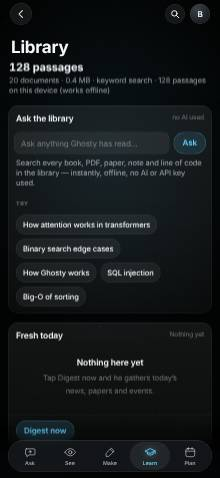
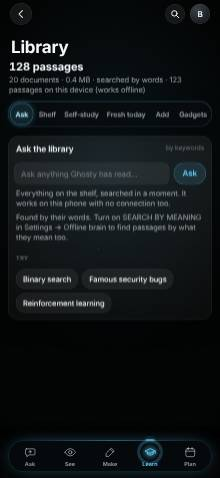
System's report card links to the Offline Brain panel itself (the Settings screen opens on whatever pill was last chosen); the deck's twenty miniatures made again after the sections
Claude-Session: https://claude.ai/code/session_01PxJsFpBagxwsDNyyZqF76o

diff --git a/apps/web/src/features/system/reportcard.ts b/apps/web/src/features/system/reportcard.ts
@@ -10,7 +10,7 @@ import { clear, h, svgEl } from '../../core/dom';
 import { catScores, CATS, overall, summarise, trend, voiceLine, type Run } from '../../offline/bench';
 import { offlineBrain, offlineReady, offlineSupport } from '../../offline/brain';
 import { modelKey, needsCheck, reportCard, runReportCard, stopThinking, thinking } from '../../offline/harder';
-import { go } from '../../shell/tabs';
+import { goToPanel } from '../../ui/sections';
 import { bar, button, panel, toast, type Panel } from '../../ui/components';
 
 const pct = (x: number) => `${Math.round(x * 100)}%`;
@@ -57,7 +57,8 @@ export function reportCardPanel(): Panel & { refresh(): void } {
   const quick = button('QUICK CHECK', () => start(false));
   quick.title = 'All 20 questions, as in chat only (a few minutes)';
   const stop = button('STOP', () => stopThinking(), 'warn');
-  const toSettings = button('DOWNLOAD IT IN SETTINGS', () => go('settings'));
+  // (the panel itself, not the Settings screen on whatever pill was last chosen: it sits under Voice & home)
+  const toSettings = button('DOWNLOAD IT IN SETTINGS', () => goToPanel('settings', 'OFFLINE BRAIN'));
 
   /** One run: a row per kind (as in chat · with THINK HARDER · time), then the verdict. */
   const paintRun = (r: Run, live: boolean) => {

diff --git a/docs/build-plan/UPGRADES.md b/docs/build-plan/UPGRADES.md
@@ -6,6 +6,7 @@ when the change is merged into the branch, not when it is planned.
 
 | Date | Area | What changed | Before | After | Evidence |
 |---|---|---|---|---|---|
+| 25 Oct | Polish | TWO SMALL THINGS LEFT BY THE SECTIONS ROLLOUT: System's report card's DOWNLOAD IT IN SETTINGS went to the Settings screen on whatever pill was last chosen (the Offline Brain panel sits under Voice & home, so it could land on Appearance with no sign of it) → it opens the panel itself (`goToPanel('settings', 'OFFLINE BRAIN')`, as the School's link already did); the Every-screen deck's twenty miniatures were photographed before the sections and showed the old long pages → made again on a fresh preview (`tests/deckshots.spec.mjs`), so the deck shows each screen with its pills. | a link that could miss its panel; stale pictures on Home's deck | the panel in view; pictures of the screens as they are | `tests/deck.spec.mjs`, `thinkharder` (the report card) and `ui` clean on a fresh preview of the tree |
 | 25 Oct | Navigation | LITTLE TABS INSIDE EVERY LONG SCREEN (OWNER-ISSUES 48; the owner: "i wanted like the things inside the tabs to have their own little tabs too because it can get a little confusing and overstimulating"): `ui/sections.ts` (44 pt pills under the title, one section at a time, remembered per screen, deep links select their pill, phones only) on Settings (Appearance · You · Voice & home · Ghosty · About), the Library (Ask · Shelf · Self-study · Fresh today · Add · Gadgets), Memory (Me · Patterns · Timeline · Diary · Chat; the YOU / DIARY & CHAT switch gone), School (Ladder · This stage · Results · Weak spots · Papers · Placement), the Workshop (Build · Ideas · Changes · Made · Training; its switch gone), Threats (Signals · Near you · Space weather · Launches) and Links (Accounts · This phone · Services). The row sizes each pill to its name, goes tighter (`.dense`) or scrolls with the chosen pill in view when six names do not fit; a deck link lands clear of the pills (`scroll-padding-top: 86px`); the first visit to Settings, System or Links no longer draws an empty YOU heading (the `applying` guard swallowed the first sort). | pages of 1,068 px (Settings), 3,524 (Library), 4,477 (School) and 2,167 (Threats) of one long scroll | Settings, Memory and Links fit one screen for every pill at 440 × 956; the rest scroll only inside the chosen section | `tests/nav.spec.mjs` (per screen: names, 44 pt, one section shown, remembered across a reload, deep links; every pill at 440 and 390; all nine sectioned screens at 1440 × 900 with every column hit at its centre); 17 specs open the section they test; before/after shots per pill in the session's scratchpad |
 | 25 Oct | Gym | PLAY HIM AT FULL STRENGTH, AND HE LEARNS FROM THE OWNER'S GAMES (OWNER-ISSUES 52; the owner: "i already figured a way to beat Ghosty in Connect 4 every single time … Person Of Interest, the relationship Harold has with The Machine"): PLAY HIM had met his weakest self (the level's barely trained net, 128 simulations), so a bottom-row double-threat trick won every time → against the owner he now brings everything whatever his level: a four, a block, what the owner taught him, an exact bitboard solver (negamax, a 4M-entry table kept between moves), a 13–16-move look-ahead that rules out every move losing by force, the learned net to choose among equals, and the rest of 1.5 s proving the choice; every move has one line of reason ("I had to stop column 4.", "Columns 2 and 5 lose by force. I kept clear."). Every game with him is kept on the phone (an IndexedDB journal, 300 games); a loss is studied by the solver when nothing trains: the first move proved to throw the result away, the columns that held, his idea in words ("a double threat on columns 1 and 3"), the net trained on what was proved, the turning point a lesson the book plays right from then on; while the GYM is open and idle he solves deeper positions from those games. Tic-tac-toe is perfect against him; checkers and chess keep their engines over a 4-move tactical floor. The whole GYM speaks in the first person ("I teach myself by playing, on this phone."; the greeting "Since yesterday: 2 games with you, 2 lessons from you, 4,000 games against myself."). | four trick lines (4-2-3-5 at 0 games of training; 5-5-4-6-3 at 300; a 9-move line at 1,000; the 7-trap at 3,000) beat the old engine every time, by move 7 to 17 | none of the four wins; from all 600 stored positions with 16 or fewer empty squares he gets at least the solver's result against perfect play; slowest move 1.5–1.9 s on this machine | `apps/edge/test/gymvs.test.mjs` 14/14 (in `npm test` through offline.test), gym 35/35, gym2a 23/23; `tests/gym.spec.mjs` (the tricks in the worker and on the board, a lost game studied with its review, the greeting) clean on the merged tree; before/after shots in the session's scratchpad |
 | 25 Oct | Boot | THE CINEMATIC ON EVERY COLD OPEN, AND A RICHER CUT (OWNER-ISSUES 49; the owner: "i want the cinematic to be on every boot up and just a bit cooler like we're so close"): the once-a-day gate is gone (a launch from the Home Screen, a fresh tab or a reload plays it; a tab switch, a resume after 3 s away, a page back from the back-forward cache and a deep link only get Mind's breath; "reboot" replays it). The cut is 3.9 s: true black and one point of light; the particles gather with faint trails while the camera pushes in through three depths (far dust, the constellation, near motes streaming past) and one sweep of light refracts as it crosses the equator; the sphere resolves from the inside out (haze, the six meridians catching the light one after another, the latitudes, the rim last); G H O S T Y flies in a little wide and tightens, a thin line of the instruments' light draws itself under it; the greeting comes with a breath of bloom; Mind flies into Home's hero and the HUD slides in a beat (110 ms) after it lands. Every frame is held to a budget (`__bootState.budget`: a long frame is over 12 ms at 120 Hz, over 20 at 60): a phone that stutters before the motion gets the short version, one that strains mid-flight the lean cut (depths, trails and refraction dropped, the rest 1.5× faster). The extras' shaders compile while the point still breathes. A frame that throws bails straight to Home (it plays on every open now, so it must never leave the app behind the black). | once a day; 3.5 s; the HUD already showing during the flight; a stalled shader cost a 7,653 ms frame on a cold open here | every cold open; 3.9 s with the depths, trails, refraction, tightening, line, bloom and the HUD's beat; worst frame work on a cold open 154 ms here | `tests/boot.spec.mjs` (the timeline, the budget, the HUD's beat, the greeting spoken once on the first tap, a skip at every stage, a resume and a deep link that only breathe, the lean cut under a 26 ms burn) clean on the merged tree, with layout, routec, hubcards and ui; contact sheets and a WebM in the session's scratchpad |

diff --git a/docs/build-plan/HANDOFF.md b/docs/build-plan/HANDOFF.md
@@ -626,6 +626,12 @@ folder that no longer exists; ignore those paths).
   his next open: the GYM at full strength, the boot on every cold open, the little tabs on seven more screens, the four
   specs in CI's loop. Next pull request: #41, from whatever lands next (the Agenda and System passes wait for the
   allowance reset; the owner's answers wait: the four Offline Brain steps, the Harold/Machine picks, the usage numbers).
+- 25 Oct 12:20 UK: two leftovers of the sections rollout done by hand (no builder): System's report-card link opens the
+  Offline Brain panel (features/system/reportcard.ts: goToPanel instead of go), and the deck's twenty miniatures made
+  again on a fresh preview (tests/deckshots.spec.mjs; all twenty change bytes, the sectioned screens change looks).
+  Seen in the new pictures, for the Settings pass: the Appearance section holds one row (THEME), so the screen opens
+  nearly empty under its pills — Appearance and You may belong together, or You should come first (a design pick for
+  the owner, or the pass). Pushed as PR #41.
 - The week's pull request is **#32** (claude/ghosty-ai-training-idwhp9 → main), opened 23 Oct; CI runs on every push to it.
   Merged into the branch on 23 Oct after review: STUDY at scale, GYM part 3, the training pre-flight fixes, the design
   mock-ups (routes A/B/C, then C2 which the owner is approving). Running: fixes A2, SCHOOL part 1. Next: the C2 build
